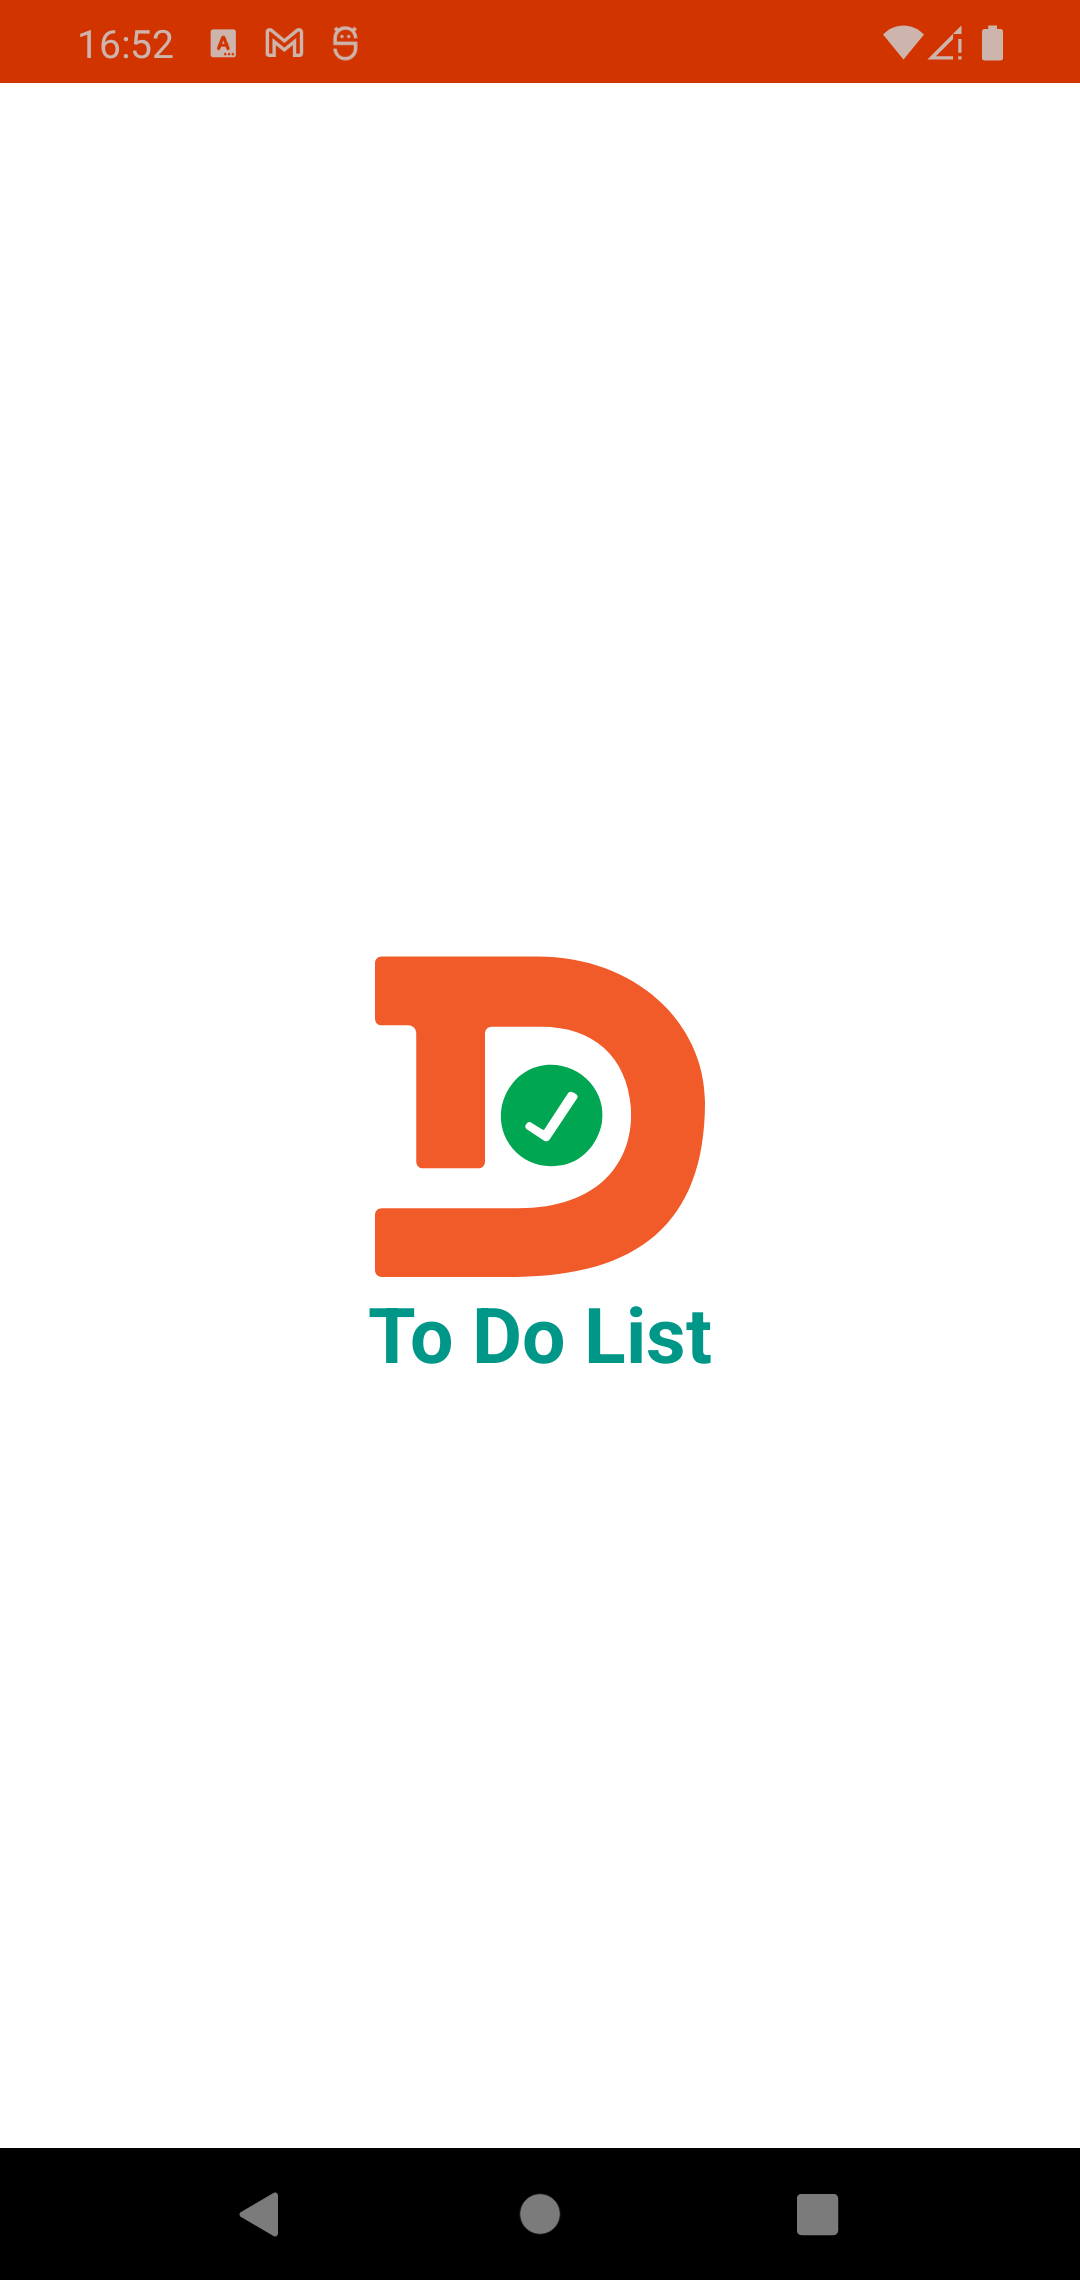
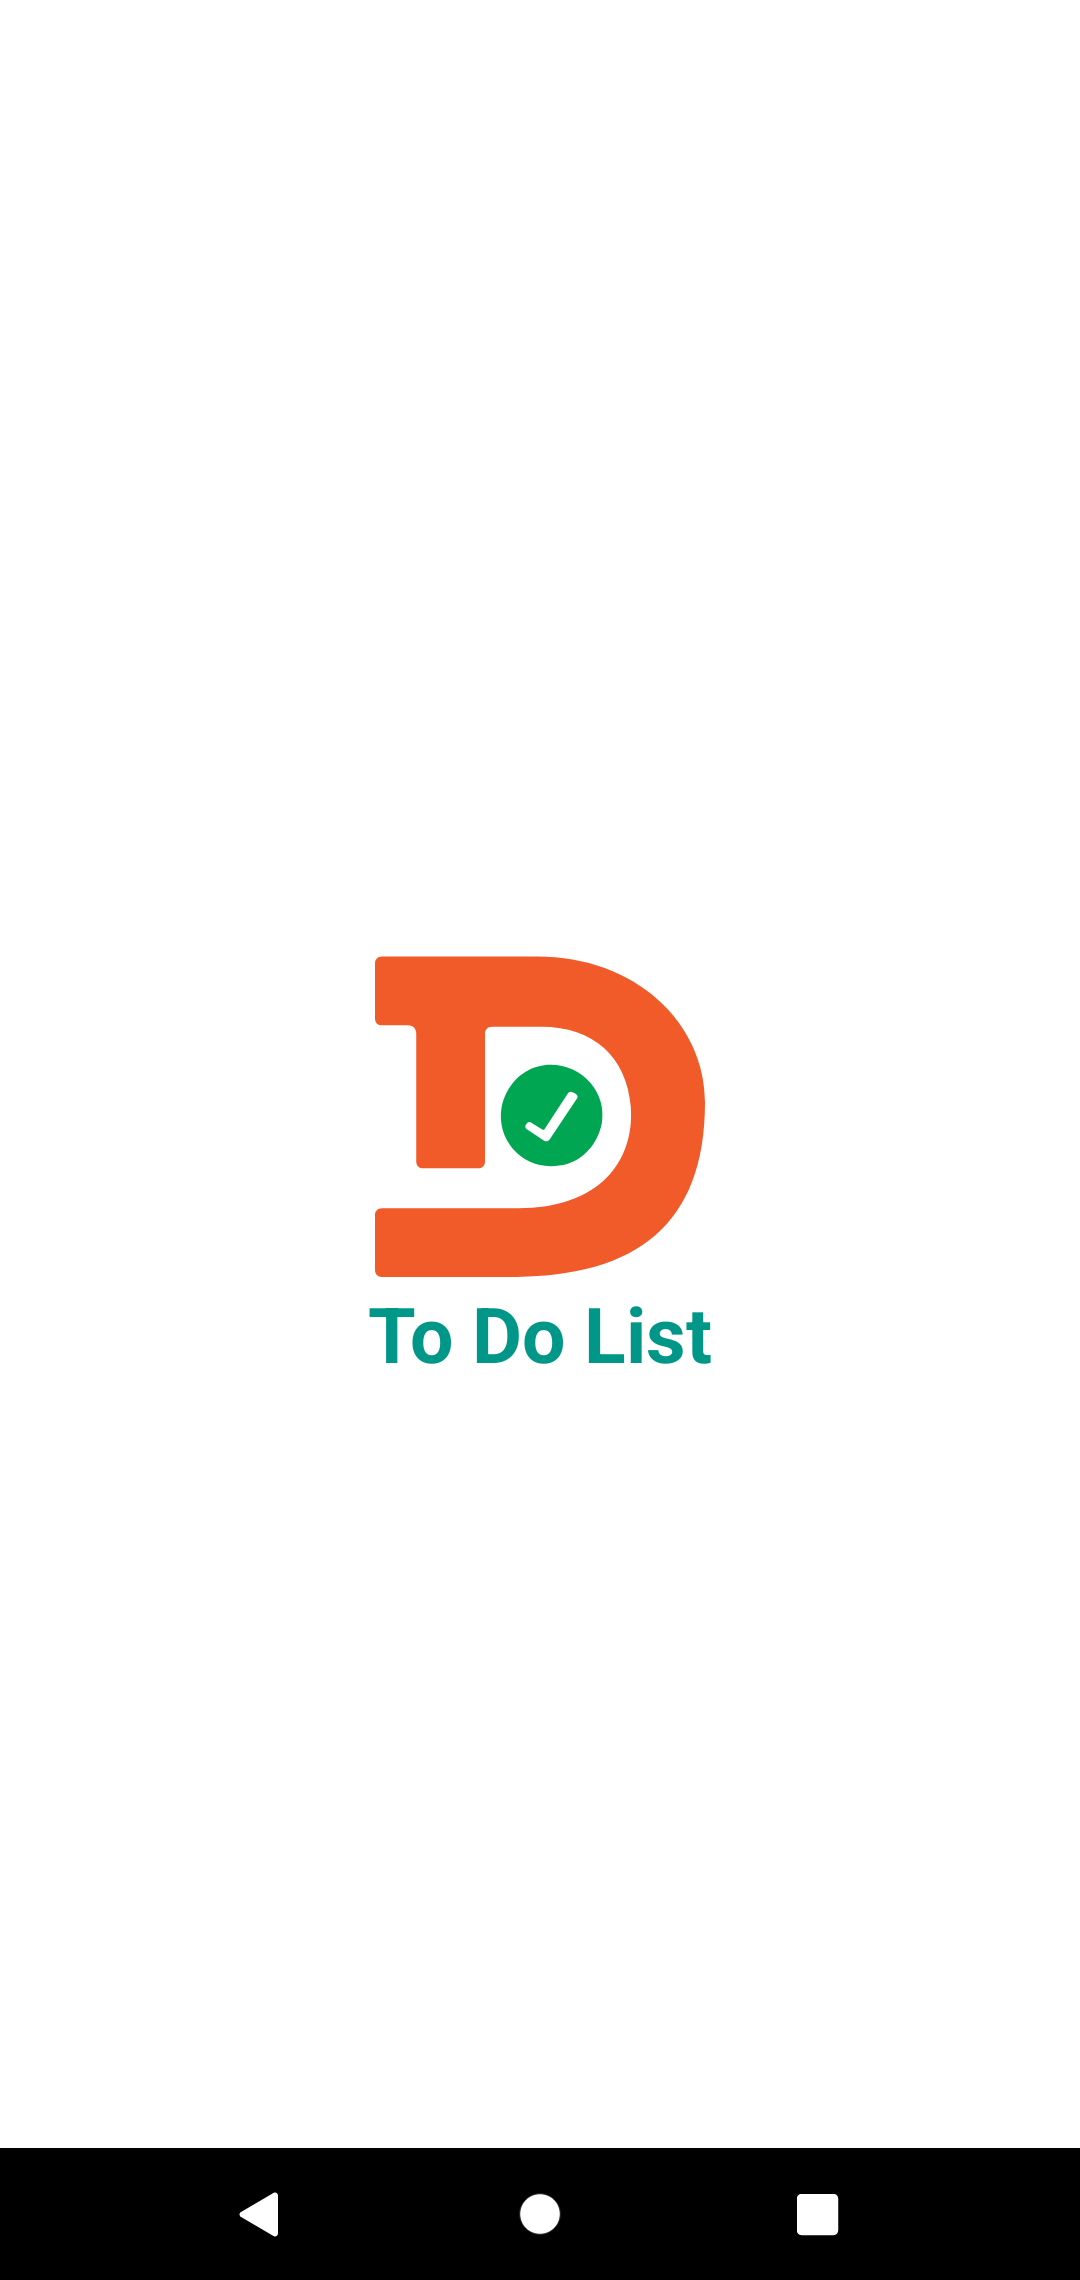
update img view README.md

diff --git a/app/src/main/java/com/nuryadincjr/todolist/activity/SplashScreenActivity.java b/app/src/main/java/com/nuryadincjr/todolist/activity/SplashScreenActivity.java
@@ -17,8 +17,6 @@ public class SplashScreenActivity extends AppCompatActivity {
         super.onCreate(savedInstanceState);
         setContentView(R.layout.activity_splash_screen);
 
-        getSupportActionBar().hide();
-
         transition();
     }
 
